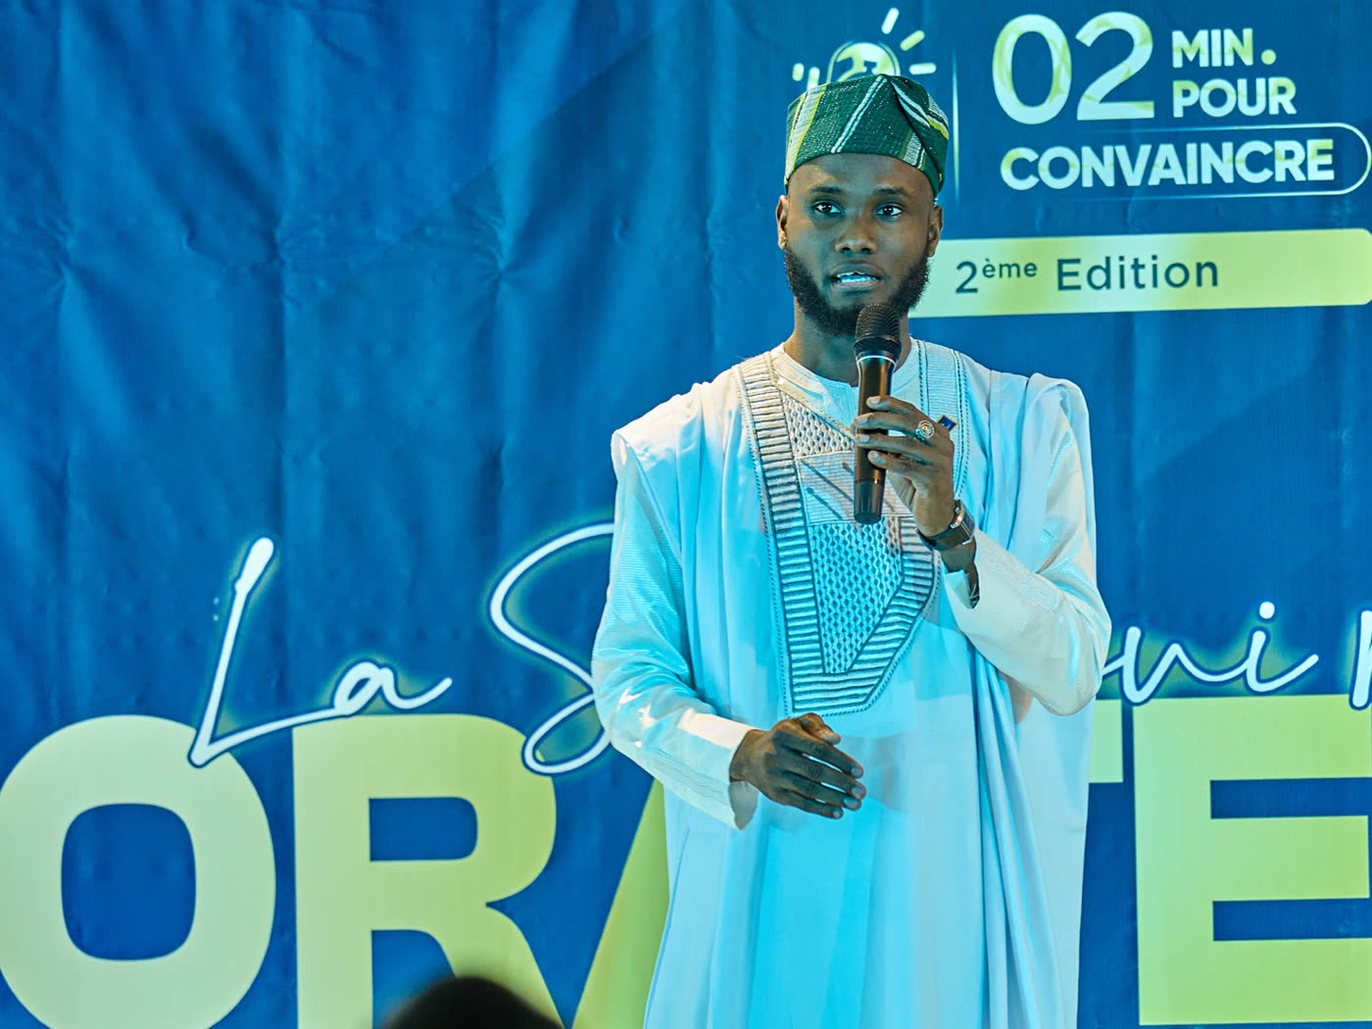
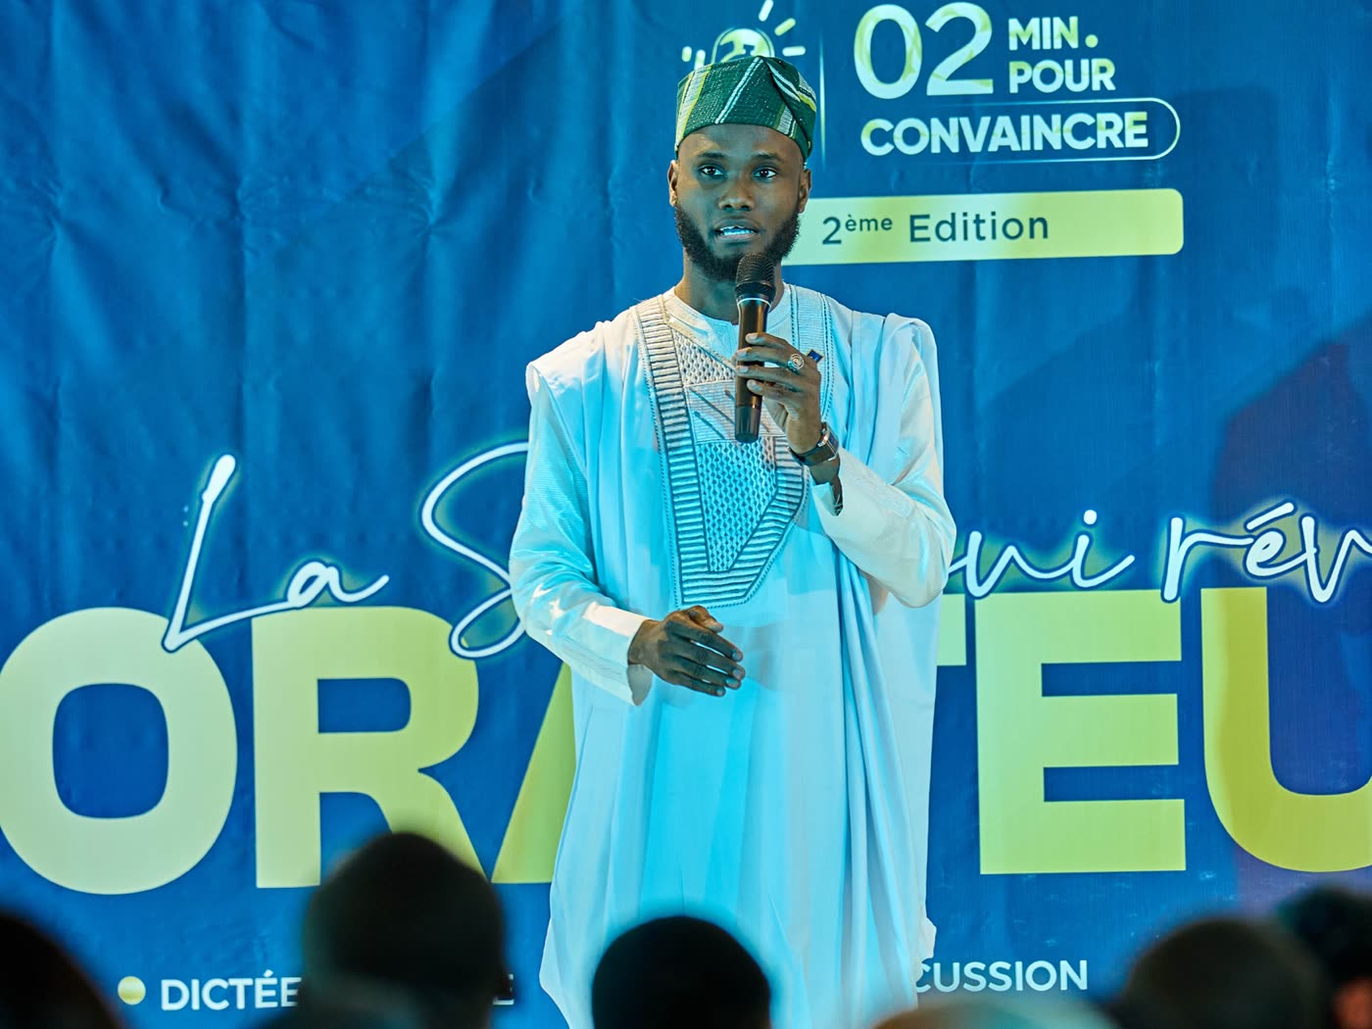
Chiffres harmonisés sur toutes les pages, icônes au trait, livre de la fondatrice, témoignage plus petit
- Bloc chiffres commun (build/chiffres.js) : un chiffre par ligne, très grand, avec décompte,
  sur l'accueil, Qui sommes-nous, Impact, Partenaires, Sponsoring, 1ère et 2ème éditions.
- Valeurs écrites de la même façon (+10M, +700K, sans zéro initial) et libellés sans parenthèses.
- Émojis 📅 et 📍 remplacés par des icônes au trait or (build/icones.js).
- Qui sommes-nous : le mot de la fondatrice est remplacé par une présentation du livre
  « Chroniques d'une voix qui s'est révélée » (maquette, description, lien boutique La Muse Éloquente).
- Accueil : photo d'orateur recadrée plus large ; témoignage vedette en police réduite.

Claude-Session: https://claude.ai/code/session_01F8np9tRxhfCRNNLp2MeqNs

diff --git a/public/qui-sommes-nous/index.html b/public/qui-sommes-nous/index.html
@@ -94,10 +94,12 @@
 </section>
 
 <section class="stats-band">
-  <div class="container stats-grid">
-    <div class="stat-card reveal"><span class="stat-value">+70K</span><span class="stat-label">abonnés sur nos réseaux sociaux (Facebook, Instagram, LinkedIn, TikTok)</span></div>
-    <div class="stat-card reveal"><span class="stat-value">+1000</span><span class="stat-label">spectateurs sur les lives 2 Minutes Pour Convaincre sur TikTok</span></div>
-    <div class="stat-card reveal"><span class="stat-value">+10.000.000</span><span class="stat-label">de vues cumulées sur nos différents réseaux</span></div>
+  <div class="container">
+    <ul class="acc-chiffres-liste">
+      <li data-reveal style="--delai:0.00s"><strong data-compteur>+70K</strong><span>abonnés sur nos réseaux sociaux</span></li>
+      <li data-reveal style="--delai:0.10s"><strong data-compteur>+1000</strong><span>spectateurs sur nos lives TikTok</span></li>
+      <li data-reveal style="--delai:0.20s"><strong data-compteur>+10M</strong><span>vues cumulées sur nos réseaux</span></li>
+    </ul>
   </div>
 </section>
 
@@ -134,14 +136,19 @@
         <p class="section-lead" style="text-align:left; margin:0">Fondatrice de La Muse Éloquente, Initiatrice de « Deux Minutes Pour Convaincre »</p>
       </div>
     </div>
-    <div class="prose reveal">
-      <p>La première édition, nous l'avions organisée en deux mois à peine. Un pari un peu fou, porté par la conviction que l'éloquence et l'improvisation méritaient leur scène d'exception au Bénin. Et le résultat a dépassé nos propres attentes.</p>
-      <p>Alors pour cette 2ème édition, le challenge était clair : faire beaucoup mieux. Plus de rigueur dans la préparation, plus d'ambition dans le format, plus d'exigence dans chaque détail.</p>
-    </div>
-    <div class="book-card reveal">
-      <h3>Chroniques d'une voix qui s'est révélée, Tome 1 : De l'Ombre à la Scène</h3>
-      <p><em>Disponible en version papier en France et à Cotonou, ainsi qu'en e-book.</em></p>
-      <a href="/editions/2eme-edition/#evenements-associes" class="btn btn-outline">Voir le lancement du livre →</a>
+    <div class="livre-bloc reveal">
+      <figure class="livre-photo"><img src="/assets/img/livre/chroniques-maquette.jpg" alt="Le livre Chroniques d'une voix qui s'est révélée, de Mazidath Bello" loading="lazy"></figure>
+      <div class="livre-texte">
+        <p class="eyebrow">Son livre</p>
+        <h3>Chroniques d'une voix<br>qui s'est <span class="or-texte">révélée</span></h3>
+        <p class="manuscrit livre-tome">Tome 1 : De l'Ombre à la Scène</p>
+        <p>Premier livre de Mazidath Bello, lancé lors de la 2ème édition. Un récit autobiographique et une méthode pour révéler sa voix, porté par la conviction que la prise de parole n'est pas un don réservé à quelques-uns mais une compétence.</p>
+        <p class="livre-dispo">Disponible en version papier en France et à Cotonou, ainsi qu'en e-book.</p>
+        <div class="livre-actions">
+          <a href="https://www.lamuseeloquente.fr/boutique/#chroniques-d-une-voix-qui-s-est-revelee" class="btn btn-primary" target="_blank" rel="noopener">Se procurer le livre</a>
+          <a href="/editions/2eme-edition/#evenements-associes" class="btn btn-outline">Voir le lancement</a>
+        </div>
+      </div>
     </div>
   </div>
 </section>

diff --git a/public/editions/1ere-edition/index.html b/public/editions/1ere-edition/index.html
@@ -70,8 +70,8 @@
     <p class="eyebrow">Édition passée</p>
     <h1>1ère édition</h1>
     <div class="hero-meta">
-      <span>📅 Samedi 10 mai 2025</span>
-      <span>📍 Hôtel Azalaï, Cotonou</span>
+      <span><svg class="ico-meta" viewBox="0 0 24 24" width="1em" height="1em" fill="none" stroke="currentColor" stroke-width="1.8" stroke-linecap="round" stroke-linejoin="round" aria-hidden="true"><rect x="3.5" y="5" width="17" height="15.5" rx="2.5"/><path d="M3.5 10h17M8 3v4M16 3v4"/></svg> Samedi 10 mai 2025</span>
+      <span><svg class="ico-meta" viewBox="0 0 24 24" width="1em" height="1em" fill="none" stroke="currentColor" stroke-width="1.8" stroke-linecap="round" stroke-linejoin="round" aria-hidden="true"><path d="M12 21s-6.5-5.6-6.5-11a6.5 6.5 0 0 1 13 0c0 5.4-6.5 11-6.5 11z"/><circle cx="12" cy="10" r="2.4"/></svg> Hôtel Azalaï, Cotonou</span>
     </div>
   </div>
 </section>
@@ -89,12 +89,12 @@
 <section class="stats-band" id="chiffres">
   <div class="container">
     <p class="eyebrow reveal" style="text-align:center; margin-bottom:28px;">Chiffres clés</p>
-    <div class="stats-grid stats-grid-4">
-      <div class="stat-card reveal"><span class="stat-value">+100</span><span class="stat-label">participants</span></div>
-      <div class="stat-card reveal"><span class="stat-value">16</span><span class="stat-label">orateurs en compétition</span></div>
-      <div class="stat-card reveal"><span class="stat-value">04</span><span class="stat-label">rounds d'élimination progressive (16 + 8 + 4 + 2)</span></div>
-      <div class="stat-card reveal"><span class="stat-value">+700 000 FCFA</span><span class="stat-label">de lots distribués</span></div>
-    </div>
+    <ul class="acc-chiffres-liste">
+      <li data-reveal style="--delai:0.00s"><strong data-compteur>+100</strong><span>participants</span></li>
+      <li data-reveal style="--delai:0.10s"><strong data-compteur>16</strong><span>orateurs en compétition</span></li>
+      <li data-reveal style="--delai:0.20s"><strong data-compteur>4</strong><span>rounds d'élimination progressive</span></li>
+      <li data-reveal style="--delai:0.30s"><strong data-compteur>+700K</strong><span>FCFA de lots distribués</span></li>
+    </ul>
   </div>
 </section>
 

diff --git a/public/editions/2eme-edition/index.html b/public/editions/2eme-edition/index.html
@@ -70,8 +70,8 @@
     <p class="eyebrow">Édition passée</p>
     <h1>2ème édition</h1>
     <div class="hero-meta">
-      <span>📅 08 août 2026</span>
-      <span>📍 Azalaï Hôtel, Cotonou</span>
+      <span><svg class="ico-meta" viewBox="0 0 24 24" width="1em" height="1em" fill="none" stroke="currentColor" stroke-width="1.8" stroke-linecap="round" stroke-linejoin="round" aria-hidden="true"><rect x="3.5" y="5" width="17" height="15.5" rx="2.5"/><path d="M3.5 10h17M8 3v4M16 3v4"/></svg> 08 août 2026</span>
+      <span><svg class="ico-meta" viewBox="0 0 24 24" width="1em" height="1em" fill="none" stroke="currentColor" stroke-width="1.8" stroke-linecap="round" stroke-linejoin="round" aria-hidden="true"><path d="M12 21s-6.5-5.6-6.5-11a6.5 6.5 0 0 1 13 0c0 5.4-6.5 11-6.5 11z"/><circle cx="12" cy="10" r="2.4"/></svg> Azalaï Hôtel, Cotonou</span>
     </div>
   </div>
 </section>
@@ -79,12 +79,12 @@
 <section class="stats-band" id="chiffres">
   <div class="container">
     <p class="eyebrow reveal" style="text-align:center; margin-bottom:28px;">Chiffres clés</p>
-    <div class="stats-grid stats-grid-4">
-      <div class="stat-card reveal"><span class="stat-value">25</span><span class="stat-label">candidatures reçues</span></div>
-      <div class="stat-card reveal"><span class="stat-value">08</span><span class="stat-label">finalistes sur scène</span></div>
-      <div class="stat-card reveal"><span class="stat-value">+200</span><span class="stat-label">participants en présentiel</span></div>
-      <div class="stat-card reveal"><span class="stat-value">24</span><span class="stat-label">partenaires mobilisés</span></div>
-    </div>
+    <ul class="acc-chiffres-liste">
+      <li data-reveal style="--delai:0.00s"><strong data-compteur>25</strong><span>candidatures reçues</span></li>
+      <li data-reveal style="--delai:0.10s"><strong data-compteur>8</strong><span>finalistes sur scène</span></li>
+      <li data-reveal style="--delai:0.20s"><strong data-compteur>+200</strong><span>participants en présentiel</span></li>
+      <li data-reveal style="--delai:0.30s"><strong data-compteur>24</strong><span>partenaires mobilisés</span></li>
+    </ul>
   </div>
 </section>
 

diff --git a/assets/css/charte-v2.css b/assets/css/charte-v2.css
@@ -200,3 +200,25 @@
 .charte-v2 main :is(.eyebrow, .acc-surtitre, .hero-kicker, .acc-actu-meta, .form-note) { text-align: inherit; -webkit-hyphens: manual; hyphens: manual; }
 .charte-v2 main :is(.acc-surtitre, .eyebrow, .hero-kicker, .acc-actu-meta) { text-align: left; }
 .charte-v2 main :is(.acc-surtitre-centre, .section-head .eyebrow) { text-align: center; }
+
+/* Icônes au trait or (date, lieu) */
+.charte-v2 .ico-meta { display: inline-block; width: 1.05em; height: 1.05em; vertical-align: -.16em; margin-right: .35em; color: var(--gold); flex-shrink: 0; }
+.charte-v2 .page-hero .ico-meta { color: var(--gold-text); }
+
+/* Qui sommes-nous : présentation du livre de la fondatrice */
+.charte-v2 .livre-bloc { margin-top: clamp(32px, 4vw, 56px); display: grid; gap: clamp(24px, 4vw, 56px); align-items: center; padding: clamp(22px, 3.4vw, 48px);
+  background: var(--scene); border: 1px solid rgba(110, 170, 255, .3); border-radius: clamp(20px, 2.4vw, 32px); color: #fff; }
+.charte-v2 .livre-photo { margin: 0; border-radius: clamp(14px, 1.6vw, 22px); overflow: hidden; }
+.charte-v2 .livre-photo img { width: 100%; aspect-ratio: 4 / 3; object-fit: cover; object-position: 55% 50%; display: block; }
+.charte-v2 .livre-texte h3 { font: 800 clamp(1.7rem, 2.8vw, 2.6rem)/1.1 var(--font-heading); color: #fff; margin: 4px 0 6px; letter-spacing: -.015em; }
+.charte-v2 .livre-tome { font-size: clamp(1.1rem, .6vw + .95rem, 1.4rem); margin: 0 0 16px; }
+.charte-v2 .livre-texte p { color: #e6eaff; }
+.charte-v2 .livre-texte .eyebrow { color: var(--gold-text); }
+.charte-v2 .livre-dispo { font-weight: 600; color: #fff !important; }
+.charte-v2 .livre-actions { display: flex; flex-wrap: wrap; gap: 12px; margin-top: 8px; }
+.charte-v2 .livre-bloc .btn-outline { color: #fff; border-color: var(--gold); }
+.charte-v2 .livre-bloc .btn-outline:hover { background: rgba(227, 195, 90, .12); }
+@media (min-width: 900px) { .charte-v2 .livre-bloc { grid-template-columns: 1fr 1.1fr; } }
+
+/* Témoignage vedette : police réduite */
+.charte-v2 .acc-temoin-vedette blockquote p { font-size: clamp(1.05rem, 1vw + .8rem, 1.55rem); line-height: 1.5; font-weight: 600; }

diff --git a/public/assets/css/charte-v2.css b/public/assets/css/charte-v2.css
@@ -200,3 +200,25 @@
 .charte-v2 main :is(.eyebrow, .acc-surtitre, .hero-kicker, .acc-actu-meta, .form-note) { text-align: inherit; -webkit-hyphens: manual; hyphens: manual; }
 .charte-v2 main :is(.acc-surtitre, .eyebrow, .hero-kicker, .acc-actu-meta) { text-align: left; }
 .charte-v2 main :is(.acc-surtitre-centre, .section-head .eyebrow) { text-align: center; }
+
+/* Icônes au trait or (date, lieu) */
+.charte-v2 .ico-meta { display: inline-block; width: 1.05em; height: 1.05em; vertical-align: -.16em; margin-right: .35em; color: var(--gold); flex-shrink: 0; }
+.charte-v2 .page-hero .ico-meta { color: var(--gold-text); }
+
+/* Qui sommes-nous : présentation du livre de la fondatrice */
+.charte-v2 .livre-bloc { margin-top: clamp(32px, 4vw, 56px); display: grid; gap: clamp(24px, 4vw, 56px); align-items: center; padding: clamp(22px, 3.4vw, 48px);
+  background: var(--scene); border: 1px solid rgba(110, 170, 255, .3); border-radius: clamp(20px, 2.4vw, 32px); color: #fff; }
+.charte-v2 .livre-photo { margin: 0; border-radius: clamp(14px, 1.6vw, 22px); overflow: hidden; }
+.charte-v2 .livre-photo img { width: 100%; aspect-ratio: 4 / 3; object-fit: cover; object-position: 55% 50%; display: block; }
+.charte-v2 .livre-texte h3 { font: 800 clamp(1.7rem, 2.8vw, 2.6rem)/1.1 var(--font-heading); color: #fff; margin: 4px 0 6px; letter-spacing: -.015em; }
+.charte-v2 .livre-tome { font-size: clamp(1.1rem, .6vw + .95rem, 1.4rem); margin: 0 0 16px; }
+.charte-v2 .livre-texte p { color: #e6eaff; }
+.charte-v2 .livre-texte .eyebrow { color: var(--gold-text); }
+.charte-v2 .livre-dispo { font-weight: 600; color: #fff !important; }
+.charte-v2 .livre-actions { display: flex; flex-wrap: wrap; gap: 12px; margin-top: 8px; }
+.charte-v2 .livre-bloc .btn-outline { color: #fff; border-color: var(--gold); }
+.charte-v2 .livre-bloc .btn-outline:hover { background: rgba(227, 195, 90, .12); }
+@media (min-width: 900px) { .charte-v2 .livre-bloc { grid-template-columns: 1fr 1.1fr; } }
+
+/* Témoignage vedette : police réduite */
+.charte-v2 .acc-temoin-vedette blockquote p { font-size: clamp(1.05rem, 1vw + .8rem, 1.55rem); line-height: 1.5; font-weight: 600; }

diff --git a/build/pages/qui-sommes-nous.js b/build/pages/qui-sommes-nous.js
@@ -1,6 +1,8 @@
+const { listeChiffres } = require("../chiffres");
 function render(data) {
   const { quiSommesNous } = data;
   const ag = quiSommesNous.agence;
+  const livre = quiSommesNous.fondatrice.livre;
 
   return `
 <section class="page-hero">
@@ -32,12 +34,8 @@ function render(data) {
 </section>
 
 <section class="stats-band">
-  <div class="container stats-grid">
-    ${ag.chiffres
-      .map(
-        (c) => `<div class="stat-card reveal"><span class="stat-value">${c.valeur}</span><span class="stat-label">${c.libelle}</span></div>`
-      )
-      .join("\n    ")}
+  <div class="container">
+    ${listeChiffres(ag.chiffres)}
   </div>
 </section>
 
@@ -70,13 +68,19 @@ function render(data) {
         <p class="section-lead" style="text-align:left; margin:0">${quiSommesNous.fondatrice.titre}</p>
       </div>
     </div>
-    <div class="prose reveal">
-      ${quiSommesNous.fondatrice.motIntroduction.map((p) => `<p>${p}</p>`).join("\n      ")}
-    </div>
-    <div class="book-card reveal">
-      <h3>${quiSommesNous.fondatrice.livre.titre}</h3>
-      <p><em>${quiSommesNous.fondatrice.livre.disponibilite}</em></p>
-      <a href="/editions/2eme-edition/#evenements-associes" class="btn btn-outline">Voir le lancement du livre →</a>
+    <div class="livre-bloc reveal">
+      <figure class="livre-photo"><img src="${livre.photo}" alt="Le livre Chroniques d'une voix qui s'est révélée, de Mazidath Bello" loading="lazy"></figure>
+      <div class="livre-texte">
+        <p class="eyebrow">Son livre</p>
+        <h3>Chroniques d'une voix<br>qui s'est <span class="or-texte">révélée</span></h3>
+        <p class="manuscrit livre-tome">Tome 1 : De l'Ombre à la Scène</p>
+        <p>${livre.description}</p>
+        <p class="livre-dispo">${livre.disponibilite}</p>
+        <div class="livre-actions">
+          <a href="${livre.lienAchat}" class="btn btn-primary" target="_blank" rel="noopener">Se procurer le livre</a>
+          <a href="/editions/2eme-edition/#evenements-associes" class="btn btn-outline">Voir le lancement</a>
+        </div>
+      </div>
     </div>
   </div>
 </section>

diff --git a/public/impact/index.html b/public/impact/index.html
@@ -76,14 +76,14 @@
 <section class="stats-band" id="chiffres">
   <div class="container">
     <p class="eyebrow reveal" style="text-align:center; margin-bottom:28px;">Le concours en chiffres</p>
-    <div class="stats-grid">
-      <div class="stat-card reveal"><span class="stat-value">2</span><span class="stat-label">éditions déjà réussies</span></div>
-      <div class="stat-card reveal"><span class="stat-value">41</span><span class="stat-label">candidatures reçues</span></div>
-      <div class="stat-card reveal"><span class="stat-value">24</span><span class="stat-label">orateurs sur scène (16 en 2025, 8 en 2026)</span></div>
-      <div class="stat-card reveal"><span class="stat-value">+10M</span><span class="stat-label">vues cumulées sur nos réseaux (La Muse Éloquente et 2MPC)</span></div>
-      <div class="stat-card reveal"><span class="stat-value">+300</span><span class="stat-label">participants réunis en présentiel sur les deux éditions</span></div>
-      <div class="stat-card reveal"><span class="stat-value">300</span><span class="stat-label">bénéficiaires visés par 300 Voix dès 2027</span></div>
-    </div>
+    <ul class="acc-chiffres-liste">
+      <li data-reveal style="--delai:0.00s"><strong data-compteur>2</strong><span>éditions déjà réussies</span></li>
+      <li data-reveal style="--delai:0.10s"><strong data-compteur>41</strong><span>candidatures reçues</span></li>
+      <li data-reveal style="--delai:0.20s"><strong data-compteur>24</strong><span>orateurs sur scène</span></li>
+      <li data-reveal style="--delai:0.30s"><strong data-compteur>+10M</strong><span>vues cumulées sur nos réseaux</span></li>
+      <li data-reveal style="--delai:0.40s"><strong data-compteur>+300</strong><span>participants réunis en présentiel sur les deux éditions</span></li>
+      <li data-reveal style="--delai:0.50s"><strong data-compteur>300</strong><span>bénéficiaires visés par 300 Voix dès 2027</span></li>
+    </ul>
   </div>
 </section>
 

diff --git a/public/candidature/index.html b/public/candidature/index.html
@@ -287,7 +287,7 @@
   <div class="container">
     <div id="candidature-avant-ouverture">
       <div class="todo-banner reveal">
-        📅 Les candidatures ouvrent le <strong>15 janvier 2027</strong>
+        <svg class="ico-meta" viewBox="0 0 24 24" width="1em" height="1em" fill="none" stroke="currentColor" stroke-width="1.8" stroke-linecap="round" stroke-linejoin="round" aria-hidden="true"><rect x="3.5" y="5" width="17" height="15.5" rx="2.5"/><path d="M3.5 10h17M8 3v4M16 3v4"/></svg> Les candidatures ouvrent le <strong>15 janvier 2027</strong>
       </div>
       <div class="section-head reveal" style="margin-top:28px;">
         <h2>Les candidatures ne sont pas encore ouvertes</h2>
@@ -320,7 +320,7 @@
 
     <div id="candidature-formulaire-ouvert" hidden>
       <div class="todo-banner reveal">
-        📅 Candidatures ouvertes du <strong>15 janvier 2027</strong> au <strong>30 janvier 2027 à 23h59</strong>
+        <svg class="ico-meta" viewBox="0 0 24 24" width="1em" height="1em" fill="none" stroke="currentColor" stroke-width="1.8" stroke-linecap="round" stroke-linejoin="round" aria-hidden="true"><rect x="3.5" y="5" width="17" height="15.5" rx="2.5"/><path d="M3.5 10h17M8 3v4M16 3v4"/></svg> Candidatures ouvertes du <strong>15 janvier 2027</strong> au <strong>30 janvier 2027 à 23h59</strong>
       </div>
       <form class="contact-form reveal" id="candidature-form" data-netlify="true" name="candidature" netlify-honeypot="societe" novalidate>
         <input type="hidden" name="form-name" value="candidature">

diff --git a/public/partenaires/index.html b/public/partenaires/index.html
@@ -93,12 +93,12 @@
 <section class="stats-band">
   <div class="container">
     <p class="eyebrow reveal" style="text-align:center; margin-bottom:28px;">Un projet qui grandit</p>
-    <div class="stats-grid stats-grid-4">
-      <div class="stat-card reveal"><span class="stat-value">2</span><span class="stat-label">éditions déjà réussies</span></div>
-      <div class="stat-card reveal"><span class="stat-value">+10M</span><span class="stat-label">vues cumulées sur nos réseaux (La Muse Éloquente et 2MPC)</span></div>
-      <div class="stat-card reveal"><span class="stat-value">+300</span><span class="stat-label">participants réunis sur les deux éditions</span></div>
-      <div class="stat-card reveal"><span class="stat-value">300</span><span class="stat-label">bénéficiaires visés par 300 Voix dès 2027</span></div>
-    </div>
+    <ul class="acc-chiffres-liste">
+      <li data-reveal style="--delai:0.00s"><strong data-compteur>2</strong><span>éditions déjà réussies</span></li>
+      <li data-reveal style="--delai:0.10s"><strong data-compteur>+10M</strong><span>vues cumulées sur nos réseaux</span></li>
+      <li data-reveal style="--delai:0.20s"><strong data-compteur>+300</strong><span>participants réunis sur les deux éditions</span></li>
+      <li data-reveal style="--delai:0.30s"><strong data-compteur>300</strong><span>bénéficiaires visés par 300 Voix dès 2027</span></li>
+    </ul>
   </div>
 </section>
 

diff --git a/public/partenaires/sponsoring/index.html b/public/partenaires/sponsoring/index.html
@@ -76,12 +76,12 @@
 <section class="stats-band">
   <div class="container">
     <p class="eyebrow reveal" style="text-align:center; margin-bottom:28px;">Un projet qui grandit</p>
-    <div class="stats-grid stats-grid-4">
-      <div class="stat-card reveal"><span class="stat-value">2</span><span class="stat-label">éditions déjà réussies</span></div>
-      <div class="stat-card reveal"><span class="stat-value">+10M</span><span class="stat-label">vues cumulées sur nos réseaux (La Muse Éloquente et 2MPC)</span></div>
-      <div class="stat-card reveal"><span class="stat-value">+300</span><span class="stat-label">participants réunis sur les deux éditions</span></div>
-      <div class="stat-card reveal"><span class="stat-value">300</span><span class="stat-label">bénéficiaires visés par 300 Voix dès 2027</span></div>
-    </div>
+    <ul class="acc-chiffres-liste">
+      <li data-reveal style="--delai:0.00s"><strong data-compteur>2</strong><span>éditions déjà réussies</span></li>
+      <li data-reveal style="--delai:0.10s"><strong data-compteur>+10M</strong><span>vues cumulées sur nos réseaux</span></li>
+      <li data-reveal style="--delai:0.20s"><strong data-compteur>+300</strong><span>participants réunis sur les deux éditions</span></li>
+      <li data-reveal style="--delai:0.30s"><strong data-compteur>300</strong><span>bénéficiaires visés par 300 Voix dès 2027</span></li>
+    </ul>
   </div>
 </section>
 

diff --git a/build/pages/edition-2.js b/build/pages/edition-2.js
@@ -1,3 +1,5 @@
+const { icoDate, icoLieu } = require("../icones");
+const { listeChiffres } = require("../chiffres");
 function render(data) {
   const { jury, marraine, intervenants, gagnants, programme, editionsIndex, galerie, edition2, partenaires, site } = data;
   const edition2Meta = editionsIndex.editions.find((e) => e.slug === "2eme-edition");
@@ -11,8 +13,8 @@ function render(data) {
     <p class="eyebrow">Édition passée</p>
     <h1>2ème édition</h1>
     <div class="hero-meta">
-      <span>📅 ${edition2Historique.date}</span>
-      <span>📍 ${edition2Historique.lieu}</span>
+      <span>${icoDate} ${edition2Historique.date}</span>
+      <span>${icoLieu} ${edition2Historique.lieu}</span>
     </div>
   </div>
 </section>
@@ -20,13 +22,7 @@ function render(data) {
 <section class="stats-band" id="chiffres">
   <div class="container">
     <p class="eyebrow reveal" style="text-align:center; margin-bottom:28px;">${edition2.chiffresCles.eyebrow}</p>
-    <div class="stats-grid stats-grid-4">
-      ${edition2.chiffresCles.chiffres
-        .map(
-          (c) => `<div class="stat-card reveal"><span class="stat-value">${c.valeur}</span><span class="stat-label">${c.libelle}</span></div>`
-        )
-        .join("\n      ")}
-    </div>
+    ${listeChiffres(edition2.chiffresCles.chiffres)}
   </div>
 </section>
 

diff --git a/build/pages/candidature.js b/build/pages/candidature.js
@@ -1,3 +1,4 @@
+const { icoDate, icoLieu } = require("../icones");
 function render(data) {
   const { candidature, site, gagnants, edition3 } = data;
   const edition2026 = gagnants.editions.find((e) => e.numero === 2);
@@ -155,7 +156,7 @@ ${
   <div class="container">
     <div id="candidature-avant-ouverture">
       <div class="todo-banner reveal">
-        📅 Les candidatures ouvrent le <strong>${candidature.dateOuvertureCandidatures}</strong>
+        ${icoDate} Les candidatures ouvrent le <strong>${candidature.dateOuvertureCandidatures}</strong>
       </div>
       <div class="section-head reveal" style="margin-top:28px;">
         <h2>${candidature.listeAttente.titre}</h2>
@@ -188,7 +189,7 @@ ${
 
     <div id="candidature-formulaire-ouvert" hidden>
       <div class="todo-banner reveal">
-        📅 Candidatures ouvertes du <strong>${candidature.dateOuvertureCandidatures}</strong> au <strong>${candidature.dateLimiteCandidatures}</strong>
+        ${icoDate} Candidatures ouvertes du <strong>${candidature.dateOuvertureCandidatures}</strong> au <strong>${candidature.dateLimiteCandidatures}</strong>
       </div>
       <form class="contact-form reveal" id="candidature-form" data-netlify="true" name="candidature" netlify-honeypot="societe" novalidate>
         <input type="hidden" name="form-name" value="candidature">
